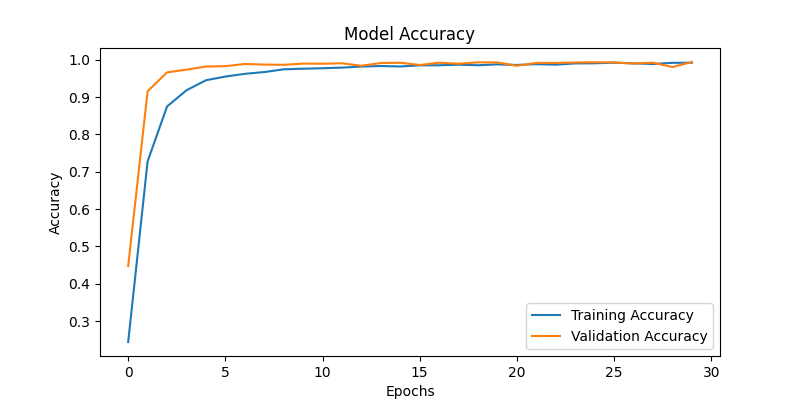
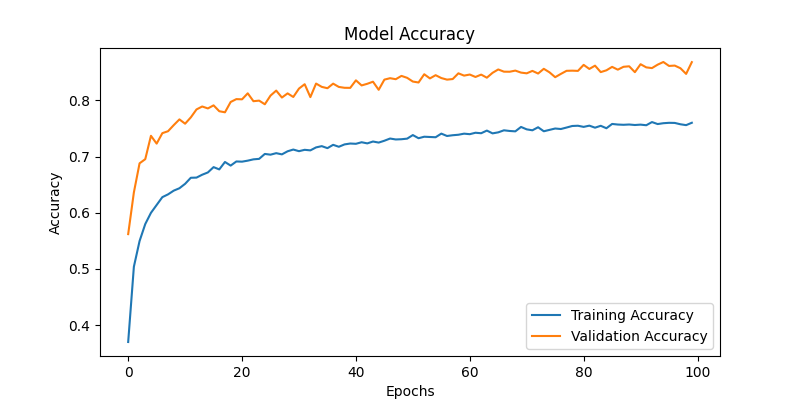
h

diff --git a/traffic_sign.py b/traffic_sign.py
@@ -4,9 +4,9 @@ from PIL import Image
 from sklearn.model_selection import train_test_split
 from keras.utils import to_categorical
 from keras.models import Model
-from keras.layers import Dense, Flatten, Dropout, BatchNormalization, GlobalAveragePooling2D
+from keras.layers import Dense, Dropout, GlobalAveragePooling2D
 from keras.applications import MobileNetV2
-from keras.preprocessing.image import ImageDataGenerator
+from tensorflow.keras.preprocessing.image import ImageDataGenerator
 from keras.callbacks import EarlyStopping
 import os
 
@@ -25,7 +25,7 @@ for i in range(classes):
             image = Image.open(os.path.join(path, a)).convert('RGB')
             image = image.resize((100, 100))
             image = np.array(image)
-
+            
             if image.shape == (100, 100, 3):
                 data.append(image)
                 labels.append(i)
@@ -35,7 +35,7 @@ for i in range(classes):
             print(f"Error loading image {a}: {e}")
 
 # 🔹 **Chuyển danh sách thành mảng numpy và chuẩn hóa dữ liệu**
-data = np.array(data) / 255.0  # Đưa pixel về khoảng [0,1]
+data = np.array(data, dtype=np.float32) / 255.0  # Đưa pixel về khoảng [0,1]
 labels = np.array(labels)
 
 # 🔹 **Chia tập dữ liệu train/test**
@@ -55,9 +55,9 @@ datagen = ImageDataGenerator(
     horizontal_flip=True,
     fill_mode='nearest'
 )
-datagen.fit(X_train)
 
-# 🔹 **Sử dụng Transfer Learning (MobileNetV2)**
+
+# 🔹 **Dùng Transfer Learning (MobileNetV2)**
 base_model = MobileNetV2(weights='imagenet', include_top=False, input_shape=(100, 100, 3))
 
 # 🔹 **Thêm các lớp Fully Connected**
@@ -72,7 +72,7 @@ x = Dense(classes, activation='softmax')(x)
 # 🔹 **Tạo mô hình mới**
 model = Model(inputs=base_model.input, outputs=x)
 
-# 🔹 **Đóng băng các lớp của MobileNetV2 để giữ trọng số đã học**
+# 🔹 **Đóng băng các lớp của MobileNetV2**
 for layer in base_model.layers:
     layer.trainable = False
 
@@ -82,10 +82,12 @@ model.compile(loss='categorical_crossentropy', optimizer='adam', metrics=['accur
 # 🔹 **Early Stopping để tránh overfitting**
 early_stopping = EarlyStopping(monitor='val_loss', patience=10, restore_best_weights=True)
 
-# 🔹 **Huấn luyện mô hình**
-epochs = 50  # Có thể tăng lên nếu cần
-history = model.fit(datagen.flow(X_train, y_train, batch_size=64),
-                    epochs=epochs,
+# 🔹 **Huấn luyện mô hình bằng generator để tiết kiệm RAM**
+batch_size = 64
+train_generator = datagen.flow(X_train, y_train, batch_size=batch_size)
+
+history = model.fit(train_generator,
+                    epochs=100,
                     validation_data=(X_test, y_test),
                     callbacks=[early_stopping])
 
@@ -124,5 +126,4 @@ plt.ylabel('Loss')
 plt.legend()
 plt.savefig(os.path.join(graph_dir, 'loss.png'))
 plt.close()
-
 print(f"Graphs saved in: {graph_dir}")

diff --git a/GUI/uploadAnh.py b/GUI/uploadAnh.py
@@ -73,7 +73,7 @@ class UploadScreen(BoxLayout, Screen):
         self.screen_manager = screen_manager
         
         # Load model
-        self.model = load_model("./models_train/my_model4.keras")  # Thay đổi file model nếu cần
+        self.model = load_model("./models_train/my_model2.keras")  # Thay đổi file model nếu cần
         self.classes = [f"Class {i}" for i in range(43)]  # Danh sách các class, cần cập nhật đúng
 
         # Header

diff --git a/model/user_crud.py b/model/user_crud.py
@@ -1,4 +1,4 @@
-from model.db_connection import get_connection, close_connection
+from db_connection import get_connection, close_connection
 
 # CREATE - Thêm user mới
 def create_user(username, password, avatar):
@@ -44,3 +44,4 @@ def delete_user(user_id):
         conn.commit()
         close_connection(conn, cursor)
         print("✅ User deleted successfully!")
+

diff --git a/GUI/scan.py b/GUI/scan.py
@@ -12,7 +12,7 @@ import cv2
 from kivy.uix.label import Label
 
 
-model = load_model("models_train/my_model4.keras")  
+model = load_model("models_train/my_model2.keras")  
 
 # Import từ các file header.py và footer.py
 from footer import Footer
